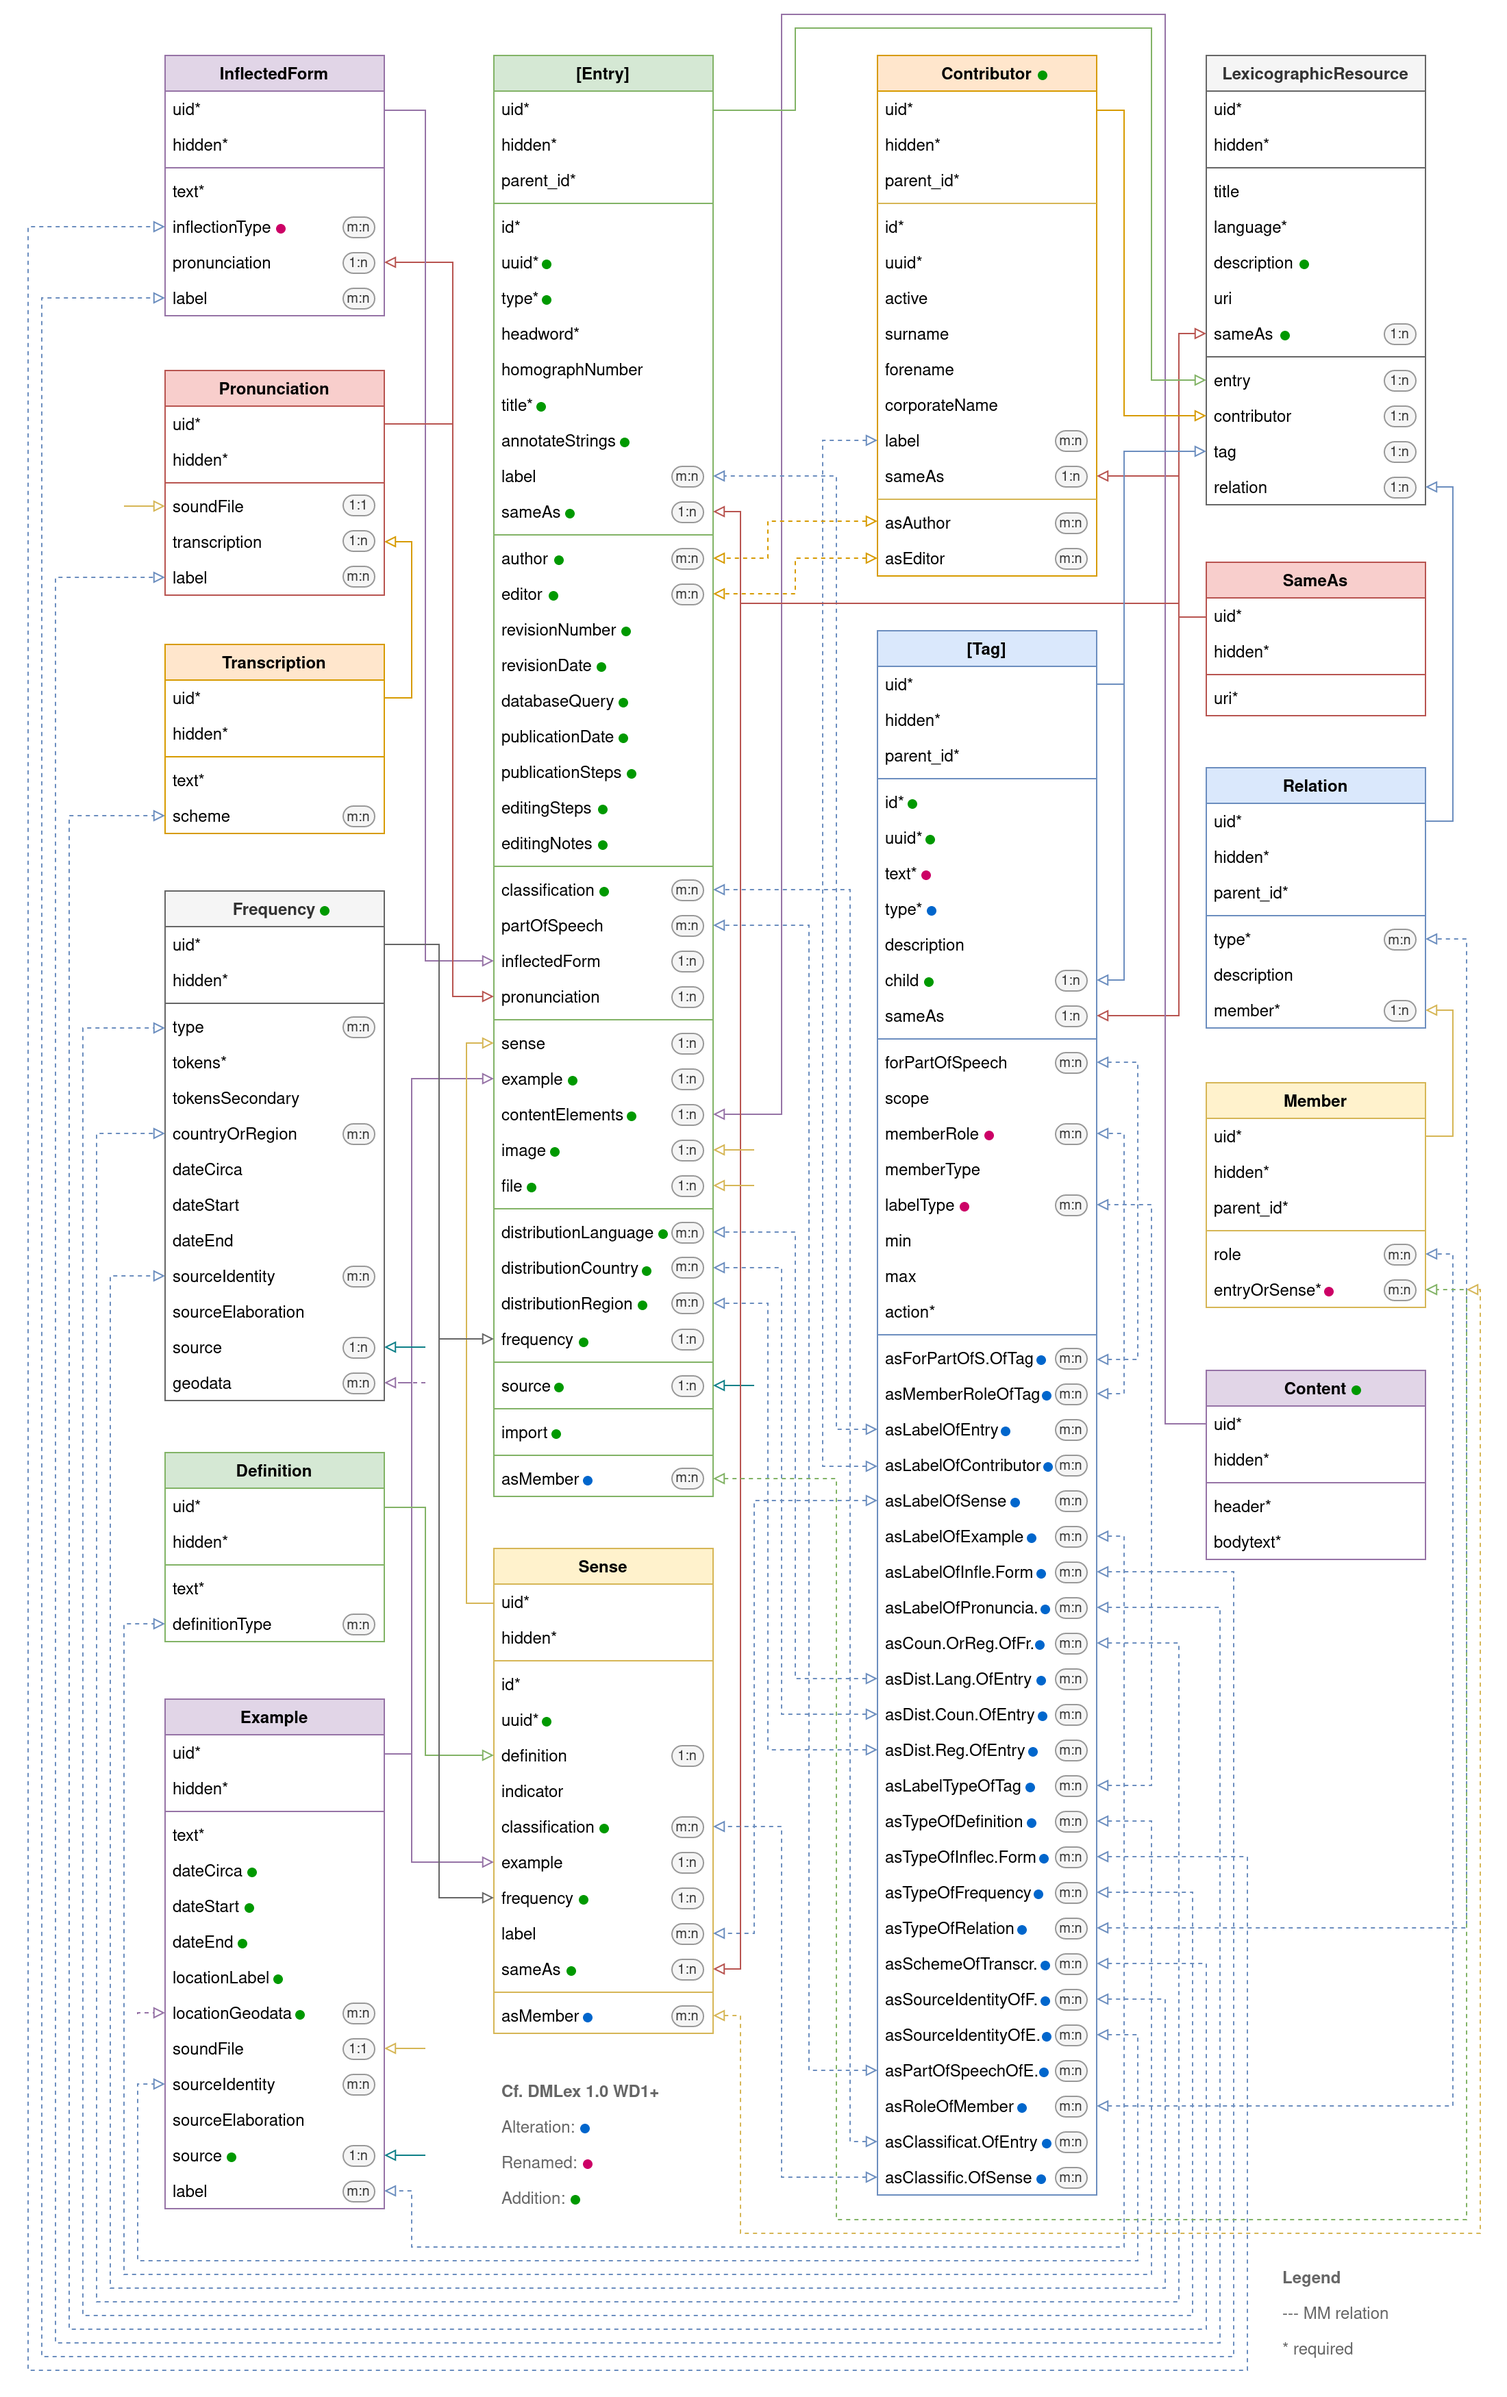
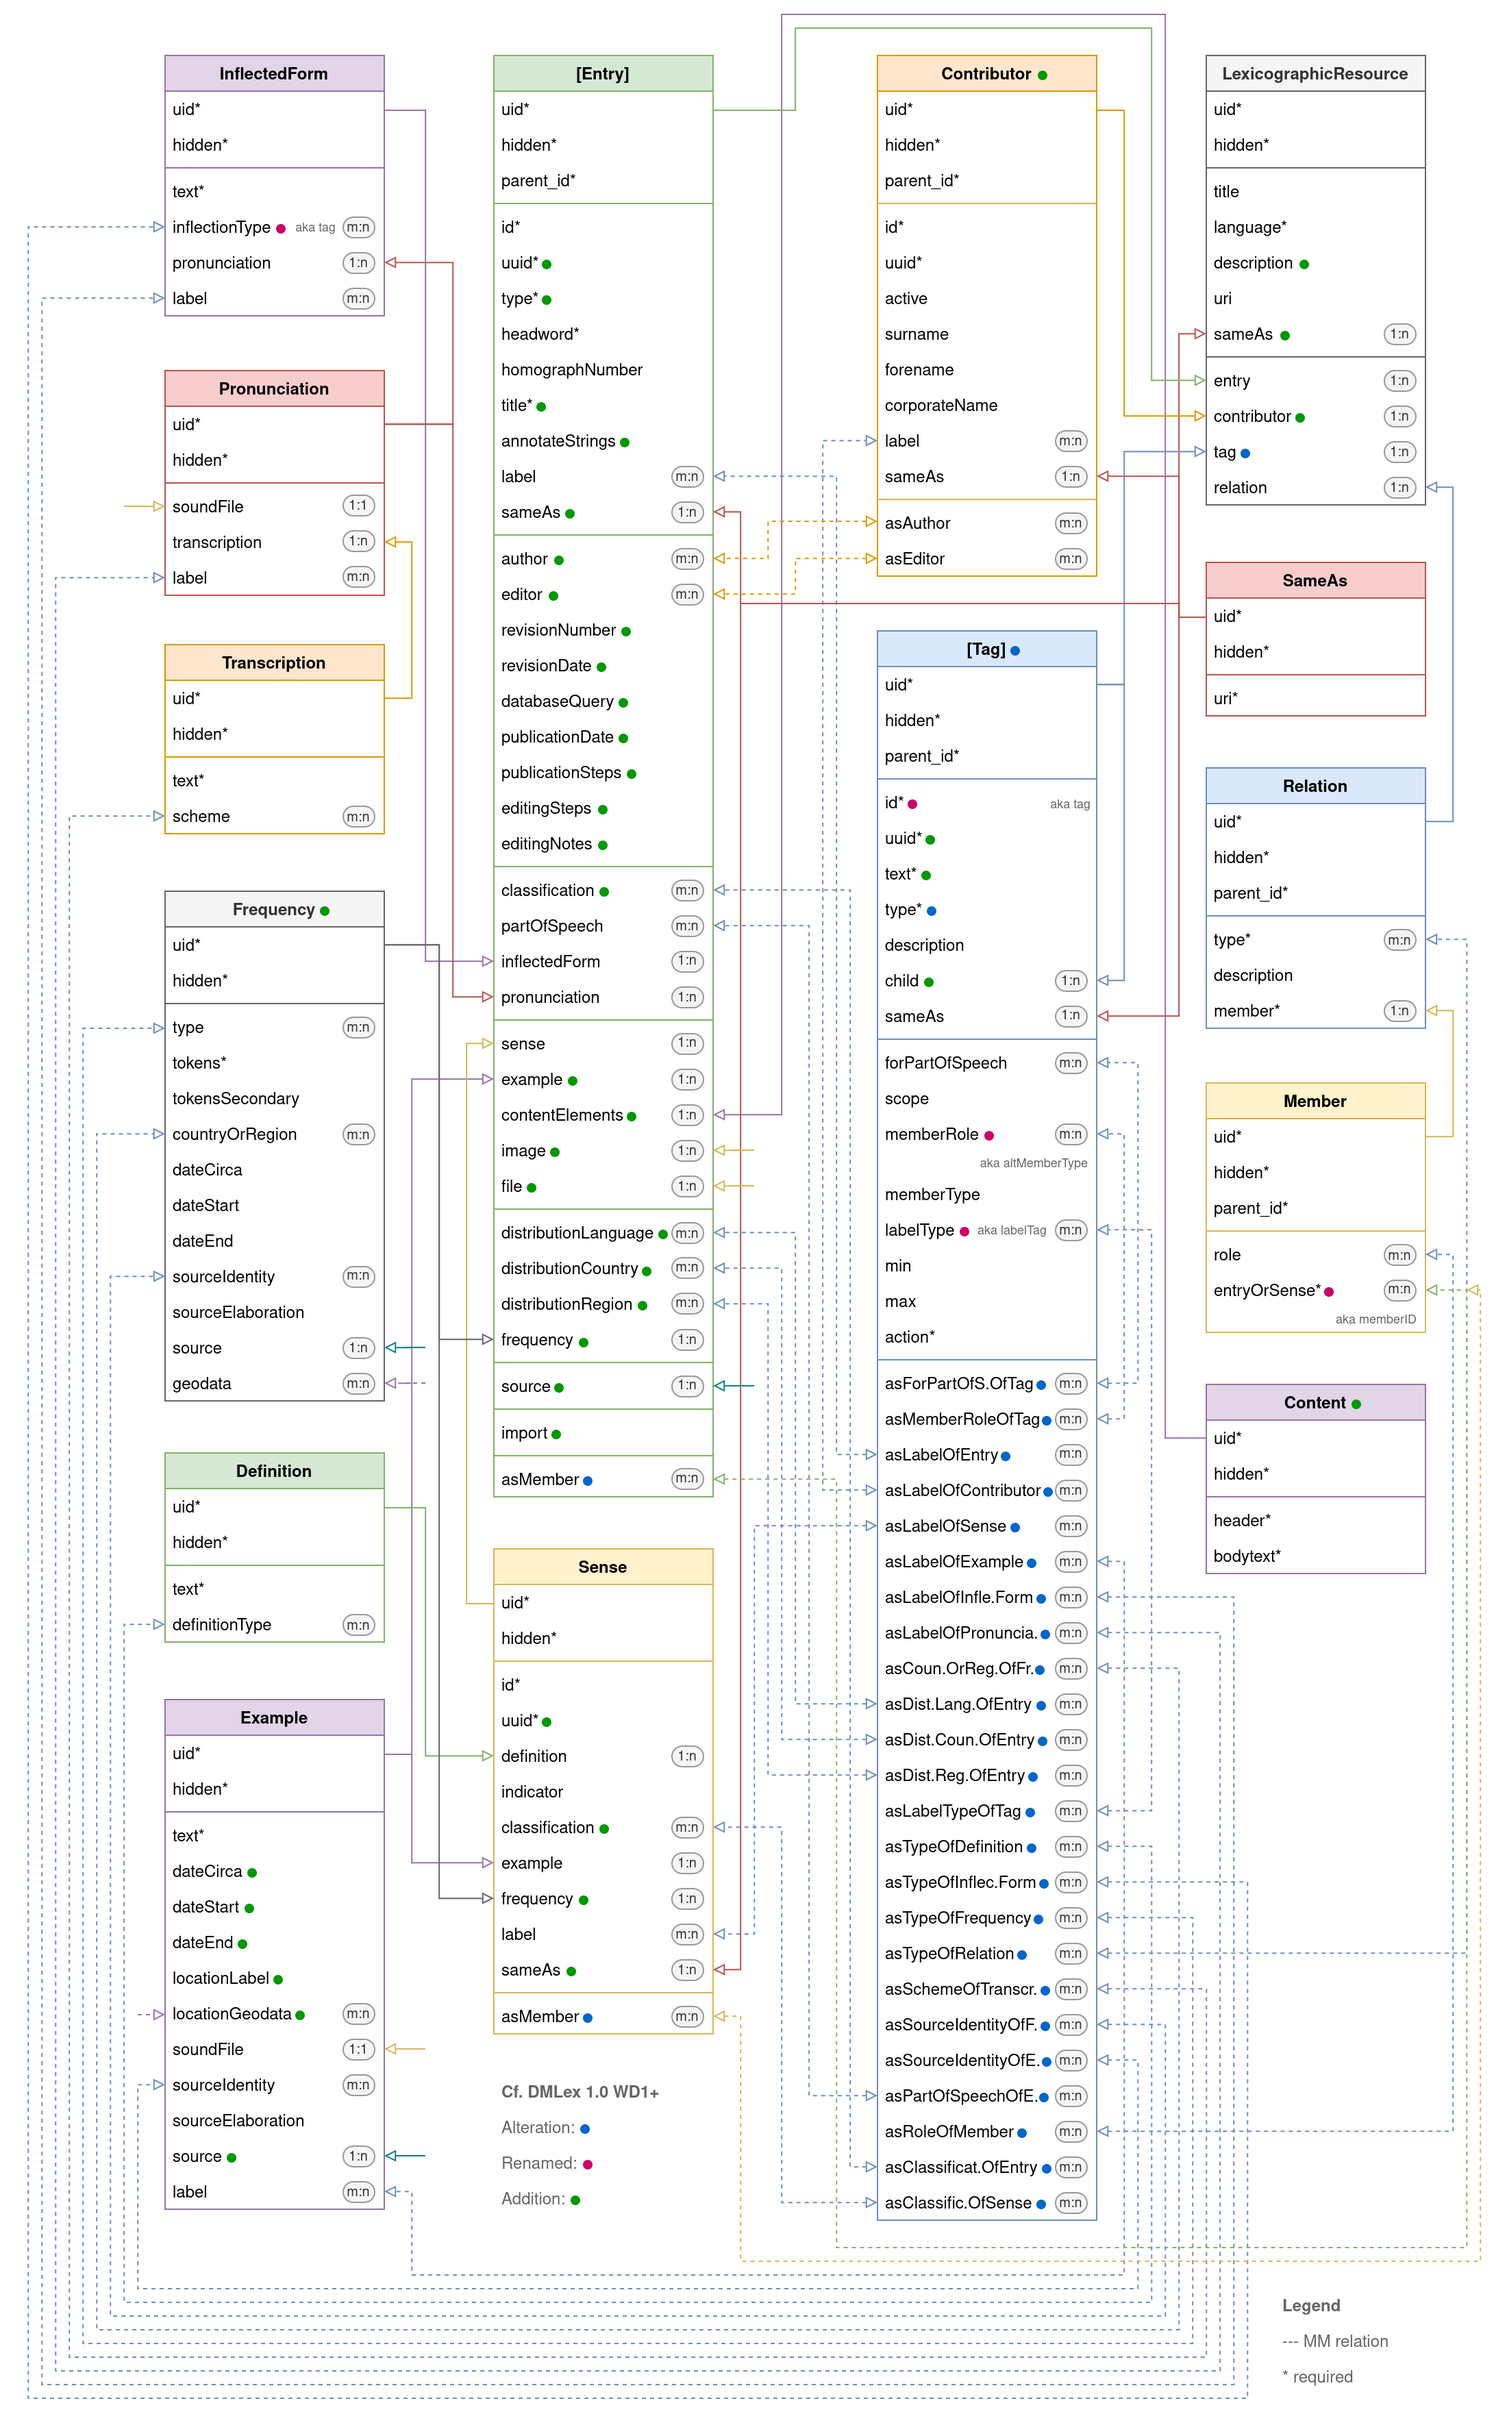
Add aliases for properties that were renamed

diff --git a/Classes/Domain/Model/RelationTypeTag.php b/Classes/Domain/Model/RelationTypeTag.php
@@ -85,6 +85,26 @@ class RelationTypeTag extends AbstractTag
     }
 
     /**
+     * Get alt type (alias of text for DMLex conformity)
+     *
+     * @return string
+     */
+    public function getAltType(): string
+    {
+        return $this->getText();
+    }
+
+    /**
+     * Set alt type (alias of text for DMLex conformity)
+     *
+     * @param string $altType
+     */
+    public function setAltType(string $altType): void
+    {
+        $this->setText($altType);
+    }
+
+    /**
      * Get scope
      *
      * @return string
@@ -154,6 +174,54 @@ class RelationTypeTag extends AbstractTag
     }
 
     /**
+     * Get alt member type (alias of member role for DMLex conformity)
+     *
+     * @return ObjectStorage<MemberRoleTag>
+     */
+    public function getAltMemberType(): ObjectStorage
+    {
+        return $this->getMemberRole();
+    }
+
+    /**
+     * Set alt member type (alias of member role for DMLex conformity)
+     *
+     * @param ObjectStorage<MemberRoleTag> $altMemberType
+     */
+    public function setAltMemberType(ObjectStorage $altMemberType): void
+    {
+        $this->setMemberRole($altMemberType);
+    }
+
+    /**
+     * Add alt member type (alias of member role for DMLex conformity)
+     *
+     * @param MemberRoleTag $altMemberType
+     */
+    public function addAltMemberType(MemberRoleTag $altMemberType): void
+    {
+        $this->addMemberRole($altMemberType);
+    }
+
+    /**
+     * Remove alt member type (alias of member role for DMLex conformity)
+     *
+     * @param MemberRoleTag $altMemberType
+     */
+    public function removeAltMemberType(MemberRoleTag $altMemberType): void
+    {
+        $this->removeMemberRole($altMemberType);
+    }
+
+    /**
+     * Remove all alt member types (alias of member role for DMLex conformity)
+     */
+    public function removeAltMemberTypes(): void
+    {
+        $this->removeAllMemberRoles();
+    }
+
+    /**
      * Get as type of relation
      *
      * @return ObjectStorage<Relation>
@@ -202,5 +270,10 @@ class RelationTypeTag extends AbstractTag
         $this->asTypeOfRelation->removeAll($asTypeOfRelation);
     }
 }
+
+/**
+ * Alias for DALex conformity since the class above is implemented as a type of tag
+ */
+class_alias('RelationTypeTag', 'RelationType');
 
 ?>

diff --git a/Classes/Domain/Model/Member.php b/Classes/Domain/Model/Member.php
@@ -219,6 +219,54 @@ class Member extends AbstractEntity
         $entryOrSense = clone $this->entryOrSense;
         $this->entryOrSense->removeAll($entryOrSense);
     }
+
+    /**
+     * Get member ID (alias of entryOrSense for DMLex conformity)
+     *
+     * @return ObjectStorage<Entry|EncyclopediaEntry|GlossaryEntry|Sense>
+     */
+    public function getMemberID(): ObjectStorage
+    {
+        return $this->getEntryOrSense();
+    }
+
+    /**
+     * Set member ID (alias of entryOrSense for DMLex conformity)
+     *
+     * @param ObjectStorage<Entry|EncyclopediaEntry|GlossaryEntry|Sense> $memberID
+     */
+    public function setMemberID(ObjectStorage $memberID): void
+    {
+        $this->setEntryOrSense($memberID);
+    }
+
+    /**
+     * Add member ID (alias of entryOrSense for DMLex conformity)
+     *
+     * @param Entry|EncyclopediaEntry|GlossaryEntry|Sense $memberID
+     */
+    public function addMemberID(Entry|EncyclopediaEntry|GlossaryEntry|Sense $memberID): void
+    {
+        $this->addEntryOrSense($memberID);
+    }
+
+    /**
+     * Remove member ID (alias of entryOrSense for DMLex conformity)
+     *
+     * @param Entry|EncyclopediaEntry|GlossaryEntry|Sense $memberID
+     */
+    public function removeMemberID(Entry|EncyclopediaEntry|GlossaryEntry|Sense $memberID): void
+    {
+        $this->removeEntryOrSense($memberID);
+    }
+
+    /**
+     * Remove member ID (alias of entryOrSense for DMLex conformity)
+     */
+    public function removeAllMemberIDs(): void
+    {
+        $this->removeAllEntriesOrSenses();
+    }
 }
 
 ?>

diff --git a/Classes/Domain/Model/LabelTag.php b/Classes/Domain/Model/LabelTag.php
@@ -218,6 +218,54 @@ class LabelTag extends AbstractTag
     }
 
     /**
+     * Get label tag (alias of label type for DMLex conformity)
+     *
+     * @return ObjectStorage<LabelTypeTag>
+     */
+    public function getLabelTag(): ObjectStorage
+    {
+        return $this->getLabelType();
+    }
+
+    /**
+     * Set label tag (alias of label type for DMLex conformity)
+     *
+     * @param ObjectStorage<LabelTypeTag> $labelTag
+     */
+    public function setLabelTag(ObjectStorage $labelTag): void
+    {
+        $this->setLabelType($labelTag);
+    }
+
+    /**
+     * Add label tag (alias of label type for DMLex conformity)
+     *
+     * @param LabelTypeTag $labelTag
+     */
+    public function addLabelTag(LabelTypeTag $labelTag): void
+    {
+        $this->addLabelType($labelTag);
+    }
+
+    /**
+     * Remove label tag (alias of label type for DMLex conformity)
+     *
+     * @param LabelTypeTag $labelTag
+     */
+    public function removeLabelTag(LabelTypeTag $labelTag): void
+    {
+        $this->removeLabelType($labelTag);
+    }
+
+    /**
+     * Remove all label tags (alias of label type for DMLex conformity)
+     */
+    public function removeAllLabelTags(): void
+    {
+        $this->removeAllLabelTypes();
+    }
+
+    /**
      * Get as label of entry
      *
      * @return ObjectStorage<Entry|EncyclopediaEntry|GlossaryEntry>

diff --git a/Classes/Domain/Model/InflectedForm.php b/Classes/Domain/Model/InflectedForm.php
@@ -185,6 +185,54 @@ class InflectedForm extends AbstractEntity
     }
 
     /**
+     * Get tag (alias of inflection type for DMLex conformity)
+     *
+     * @return ObjectStorage<InflectedFormTag>
+     */
+    public function getTag(): ObjectStorage
+    {
+        return $this->getInflectionType();
+    }
+
+    /**
+     * Set tag (alias of inflection type for DMLex conformity)
+     *
+     * @param ObjectStorage<InflectedFormTag> $tag
+     */
+    public function setTag(ObjectStorage $tag): void
+    {
+        $this->setInflectionType($tag);
+    }
+
+    /**
+     * Add tag (alias of inflection type for DMLex conformity)
+     *
+     * @param InflectedFormTag $tag
+     */
+    public function addTag(InflectedFormTag $tag): void
+    {
+        $this->addInflectionType($tag);
+    }
+
+    /**
+     * Remove tag (alias of inflection type for DMLex conformity)
+     *
+     * @param InflectedFormTag $tag
+     */
+    public function removeTag(InflectedFormTag $tag): void
+    {
+        $this->removeInflectionType($tag);
+    }
+
+    /**
+     * Remove all tags (alias of inflection type for DMLex conformity)
+     */
+    public function removeAllTags(): void
+    {
+        $this->removeAllInflectionTypes();
+    }
+
+    /**
      * Get pronunciation
      *
      * @return ObjectStorage<Pronunciation>

diff --git a/Classes/Domain/Model/MemberRoleTag.php b/Classes/Domain/Model/MemberRoleTag.php
@@ -126,6 +126,26 @@ class MemberRoleTag extends AbstractTag
     }
 
     /**
+     * Get role (alias of text for DMLex conformity)
+     *
+     * @return string
+     */
+    public function getRole(): string
+    {
+        return $this->getText();
+    }
+
+    /**
+     * Set role (alias of text for DMLex conformity)
+     *
+     * @param string $role
+     */
+    public function setRole(string $role): void
+    {
+        $this->setText($role);
+    }
+
+    /**
      * Get member type
      *
      * @return string
@@ -303,5 +323,10 @@ class MemberRoleTag extends AbstractTag
         $this->asRoleOfMember->removeAll($asRoleOfMember);
     }
 }
+
+/**
+ * Alias for DALex conformity since the class above is implemented as a type of tag
+ */
+class_alias('MemberRoleTag', 'MemberType');
 
 ?>

diff --git a/Classes/Domain/Model/AbstractTag.php b/Classes/Domain/Model/AbstractTag.php
@@ -229,6 +229,26 @@ class AbstractTag extends AbstractEntity
     }
 
     /**
+     * Get tag (alias of ID for DMLex conformity)
+     *
+     * @return string
+     */
+    public function getTag(): string
+    {
+        return $this->getId();
+    }
+
+    /**
+     * Set tag (alias of ID for DMLex conformity)
+     *
+     * @param string $tag
+     */
+    public function setTag(string $tag): void
+    {
+        $this->setId($tag);
+    }
+
+    /**
      * Get UUID
      *
      * @return string
